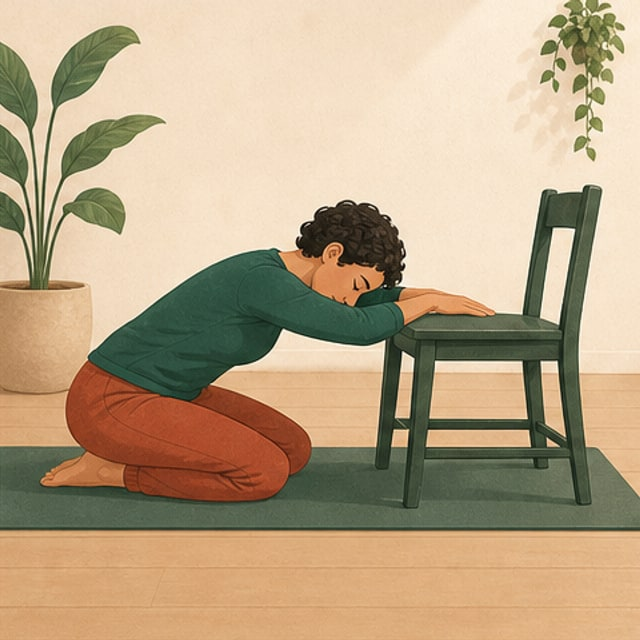
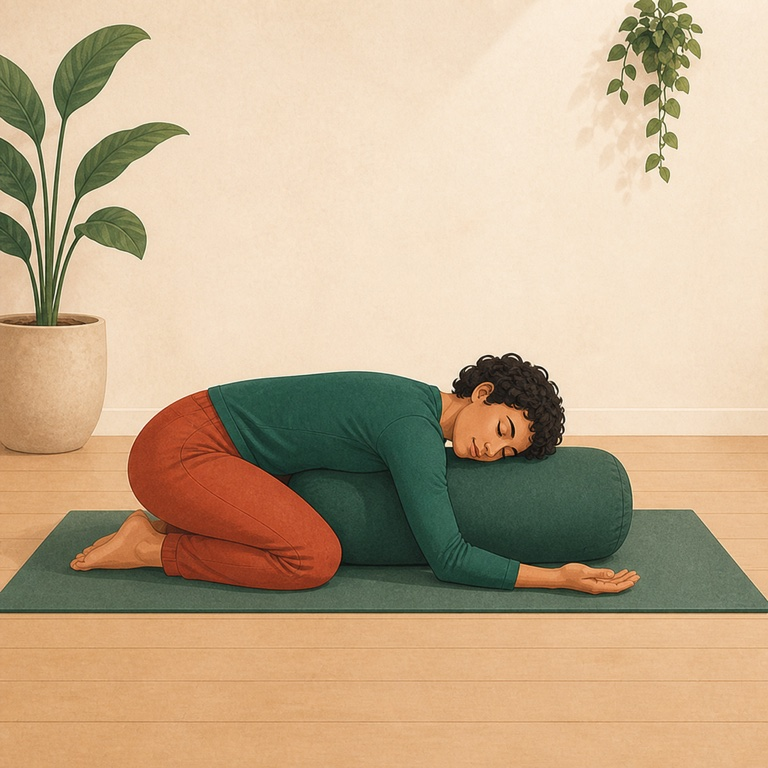
fix: refine restorative yoga presentation

diff --git a/app/yoga/page.tsx b/app/yoga/page.tsx
@@ -110,18 +110,25 @@ export default function YogaPage() {
         </header>
 
         <section className="mt-8 grid gap-5 lg:grid-cols-[minmax(0,1fr)_20rem]">
-          <div className="app-panel overflow-hidden">
-            <div className="grid md:grid-cols-[0.92fr_1.08fr]">
-              <div className="relative min-h-80 overflow-hidden bg-[#eadfcd] md:min-h-[34rem]">
+          <div className="grid items-start gap-4 xl:grid-cols-[minmax(0,0.92fr)_minmax(0,1.08fr)]">
+              <div className="app-panel relative aspect-square overflow-hidden bg-[#eadfcd] xl:aspect-[4/5]">
+                <Image
+                  src={currentPose.imagePath}
+                  alt=""
+                  aria-hidden="true"
+                  fill
+                  sizes="(min-width: 1280px) 24rem, (min-width: 1024px) 48rem, 100vw"
+                  className="absolute inset-0 h-full w-full scale-110 object-cover opacity-25 blur-xl"
+                />
                 <Image
                   key={currentPose.id}
                   src={currentPose.imagePath}
                   alt={currentStep.imageAlt ?? currentPose.imageAlt}
                   fill
                   priority
-                  sizes="(min-width: 1024px) 32rem, (min-width: 768px) 42vw, 100vw"
+                  sizes="(min-width: 1280px) 24rem, (min-width: 1024px) 48rem, 100vw"
                   className={cn(
-                    'absolute inset-0 h-full w-full object-cover',
+                    'absolute inset-0 h-full w-full object-contain',
                     currentStep.mirrorImage && '-scale-x-100'
                   )}
                 />
@@ -132,7 +139,7 @@ export default function YogaPage() {
                 </div>
               </div>
 
-              <div className="flex min-h-[34rem] flex-col p-6 md:p-8">
+              <div className="app-panel flex flex-col p-6 md:p-8">
                 <div className="flex flex-wrap items-start justify-between gap-3">
                   <div>
                     <p className="text-xs font-semibold uppercase tracking-[0.12em] text-accent">
@@ -155,12 +162,15 @@ export default function YogaPage() {
                   <span className="font-semibold text-foreground">You need:</span>{' '}
                   {selected.equipment}
                 </p>
-                <div className="mt-3 flex items-start gap-2 rounded-xl border border-border bg-background px-4 py-3">
-                  <ShieldCheck className="mt-0.5 h-4 w-4 shrink-0 text-accent" aria-hidden="true" />
-                  <p className="text-xs leading-relaxed text-muted-foreground">
-                    Wellbeing support, not treatment. Stop for pain, dizziness, numbness, or breathing difficulty. {selected.safetyNote}
+                <details className="mt-3 rounded-xl border border-border bg-background">
+                  <summary className="flex min-h-11 cursor-pointer list-none items-center gap-2 rounded-xl px-4 py-3 text-xs font-semibold text-muted-foreground focus-visible:outline-none focus-visible:ring-2 focus-visible:ring-ring [&::-webkit-details-marker]:hidden">
+                    <ShieldCheck className="h-4 w-4 shrink-0 text-accent" aria-hidden="true" />
+                    Safety and modifications
+                  </summary>
+                  <p className="px-4 pb-4 pl-10 text-xs leading-relaxed text-muted-foreground">
+                    Wellbeing support, not treatment. Stop for pain, dizziness, numbness, or breathing difficulty. Move gently. {selected.safetyNote}
                   </p>
-                </div>
+                </details>
 
                 <div className="mt-6 flex-1">
                   <p className="sr-only" role="status" aria-live="polite" aria-atomic="true">
@@ -288,8 +298,6 @@ export default function YogaPage() {
                   ))}
                 </div>
               </div>
-            </div>
-
           </div>
 
           <aside className="space-y-4">

diff --git a/lib/wellbeing/yoga.ts b/lib/wellbeing/yoga.ts
@@ -100,7 +100,7 @@ export const YOGA_POSES: Record<YogaPoseId, YogaPose> = {
     id: 'supported-child',
     name: "Supported Child's Pose",
     imagePath: '/images/yoga/supported-child.jpg',
-    imageAlt: "A kneeling person resting on a chair in Supported Child's Pose.",
+    imageAlt: "A kneeling person resting their torso on a bolster in Supported Child's Pose.",
   },
   'floor-rest': {
     id: 'floor-rest',
@@ -241,14 +241,14 @@ export const YOGA_PRACTICES: YogaPractice[] = [
     title: 'Restorative yoga',
     summary: "Supported Child's Pose and Savasana with a bolster.",
     setting: 'restorative',
-    equipment: 'A mat, sturdy chair, folded towel, and firm bolster or cushion',
-    safetyNote: 'Change position if you feel pressure, numbness, tingling, or difficulty getting up.',
+    equipment: 'A mat, folded towel, and firm bolster or cushion',
+    safetyNote: 'Choose Constructive Rest instead if kneeling is uncomfortable.',
     evidenceIds: ['yoga-safety', 'yoga-depression'],
     steps: [
       {
         label: "Supported Child's Pose",
         instruction:
-          'Kneel in front of the chair and rest your forearms and forehead on the seat. Keep your hips where your knees feel comfortable.',
+          'Kneel with your knees comfortably apart and place the bolster lengthwise between them. Fold forward, rest your torso and one cheek on the bolster, and let your arms relax.',
         seconds: 120,
         poseId: 'supported-child',
       },

diff --git a/mobile/lib/wellbeing/yoga.ts b/mobile/lib/wellbeing/yoga.ts
@@ -89,7 +89,7 @@ export const YOGA_POSES: Record<YogaPoseId, YogaPose> = {
   'supported-child': {
     id: 'supported-child',
     name: "Supported Child's Pose",
-    imageAlt: "A kneeling person resting on a chair in Supported Child's Pose.",
+    imageAlt: "A kneeling person resting their torso on a bolster in Supported Child's Pose.",
   },
   'floor-rest': {
     id: 'floor-rest',
@@ -228,14 +228,14 @@ export const YOGA_PRACTICES: YogaPractice[] = [
     title: 'Restorative yoga',
     summary: "Supported Child's Pose and Savasana with a bolster.",
     setting: 'restorative',
-    equipment: 'A mat, sturdy chair, folded towel, and firm bolster or cushion',
-    safetyNote: 'Change position if you feel pressure, numbness, tingling, or difficulty getting up.',
+    equipment: 'A mat, folded towel, and firm bolster or cushion',
+    safetyNote: 'Choose Constructive Rest instead if kneeling is uncomfortable.',
     evidenceIds: ['yoga-safety', 'yoga-depression'],
     steps: [
       {
         label: "Supported Child's Pose",
         instruction:
-          'Kneel in front of the chair and rest your forearms and forehead on the seat. Keep your hips where your knees feel comfortable.',
+          'Kneel with your knees comfortably apart and place the bolster lengthwise between them. Fold forward, rest your torso and one cheek on the bolster, and let your arms relax.',
         seconds: 120,
         poseId: 'supported-child',
       },

diff --git a/mobile/app/yoga.tsx b/mobile/app/yoga.tsx
@@ -117,7 +117,7 @@ export default function YogaScreen() {
                       styles.poseImage,
                       step.mirrorImage && styles.mirroredPose,
                     ]}
-                    resizeMode="cover"
+                    resizeMode="contain"
                   />
                   <View style={styles.poseLabel}>
                     <Text style={styles.poseLabelText}>{pose.name}</Text>

diff --git a/design-qa.md b/design-qa.md
@@ -1,0 +1,45 @@
+# Yoga Design QA
+
+## Evidence
+
+- Source visual truth: `/var/folders/81/3jk89wyx1_90jf69l47zg2nc0000gn/T/TemporaryItems/NSIRD_screencaptureui_jdRBPt/Screenshot 2026-08-06 at 4.36.59 PM.png`
+- Browser-rendered implementation: `/tmp/mhtoolkit-yoga-restorative-final-desktop.png`
+- Side-by-side comparison: `/tmp/mhtoolkit-yoga-comparison-final.png`
+- Mobile implementation: `/tmp/mhtoolkit-yoga-restorative-mobile-after.png`
+- State: Restorative yoga, step 1, timer idle, safety disclosure collapsed.
+- Desktop CSS viewport: 1600 x 1200 at device scale 1.
+- Source pixels: 1674 x 1606. Implementation pixels: 1585 x 1057 after browser chrome and scrollbar. The comparison normalizes both captures to 800 pixels wide and pads only the shorter canvas; no content is stretched.
+
+## Findings
+
+No actionable P0, P1, or P2 issues remain.
+
+- Fonts and typography: Existing MHtoolkit display and body families, weights, hierarchy, and wrapping remain consistent. The pose title and instructions are readable without crowding.
+- Spacing and layout rhythm: The media and instruction areas are now independent cards. The pose artwork no longer inherits the taller instruction-card height, and the previous blank lower-left area is gone.
+- Colors and visual tokens: Existing cream, forest, sage, and rust tokens are preserved. The soft blurred media backdrop fills the frame without competing with the pose.
+- Image quality and asset fidelity: The full square illustration is shown with `object-contain`; the replacement depicts a recognizable floor-based Supported Child's Pose over a bolster with the complete body and prop visible.
+- Copy and content: Equipment, alt text, safety modification, and step instructions now match the floor-based pose. Safety detail is available in a collapsed disclosure rather than dominating the task.
+- Responsiveness: At the mobile viewport, the page has no horizontal overflow and the media, instruction card, and fixed navigation stack correctly.
+- Interactions and accessibility: Practice selection, safety expand/collapse, Begin, Pause, Continue, Reset, and step navigation were exercised. A fresh browser pass produced no console warnings or errors.
+
+## Comparison History
+
+1. Earlier P1: the chair-supported image did not read clearly as restorative yoga and was severely cropped inside a tall media track.
+2. Earlier P2: one shared card forced the image column to follow the instruction column height, creating dead space and an unbalanced composition.
+3. Fixes: generated a floor-based Supported Child's Pose over a bolster; synchronized it across web and iOS; separated media and instruction cards; preserved the full asset with a contained foreground and soft background fill; collapsed the long safety notice.
+4. Post-fix evidence: the desktop and mobile captures show the entire pose, accurate matching instructions, balanced independent cards, and no horizontal overflow.
+
+## Focused Comparison
+
+The full-view comparison keeps the complete source card readable at 800 pixels wide, so an additional focused crop was not needed. The pose, title, equipment, safety treatment, timer, and step controls are all visible in the same comparison.
+
+## Implementation Checklist
+
+- [x] Replace ambiguous chair variation with floor-based restorative yoga.
+- [x] Prevent pose-art cropping on web and iOS.
+- [x] Remove shared-column dead space.
+- [x] Keep safety guidance accessible without permanent clutter.
+- [x] Verify desktop and mobile responsive states.
+- [x] Verify primary controls and browser console.
+
+final result: passed
